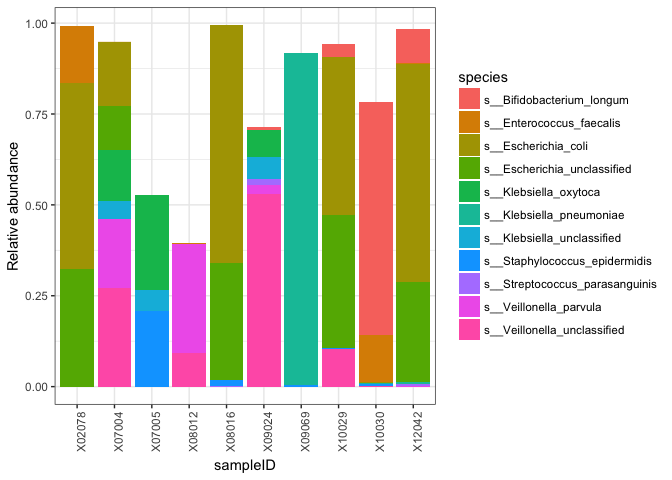
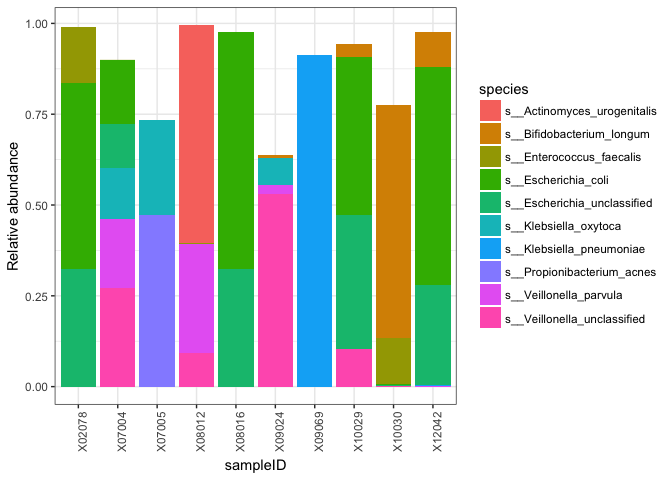
Fix top_n() bug

diff --git a/R_for_MetaPhlAn2/README.md b/R_for_MetaPhlAn2/README.md
@@ -11,7 +11,7 @@ Set your working directory to where you have your data on your own computer (and
 download data from <https://www.dropbox.com/s/agzc1fecgoj708z/infants_merged_table.txt?dl=0>
 
 ``` r
-setwd("~/Dropbox/teaching/HY_metagenomic_course_2019/MetagenomeCourse2019/R_for_MetaPhlAn2/")
+setwd("~/Dropbox/teaching/MetagenomeCourse2019/R_for_MetaPhlAn2/")
 #install.packages("tidyverse")
 #install.packages("vegan")
 #install.packages("devtools")
@@ -19,7 +19,7 @@ setwd("~/Dropbox/teaching/HY_metagenomic_course_2019/MetagenomeCourse2019/R_for_
 library(tidyverse)
 ```
 
-    ## ── Attaching packages ──────────────────────────────────────────────────────── tidyverse 1.2.1 ──
+    ## ── Attaching packages ───────────────────────────────── tidyverse 1.2.1 ──
 
     ## ✔ ggplot2 2.2.1     ✔ purrr   0.2.4
     ## ✔ tibble  1.4.2     ✔ dplyr   0.7.4
@@ -28,7 +28,7 @@ library(tidyverse)
 
     ## Warning: package 'stringr' was built under R version 3.5.2
 
-    ## ── Conflicts ─────────────────────────────────────────────────────────── tidyverse_conflicts() ──
+    ## ── Conflicts ──────────────────────────────────── tidyverse_conflicts() ──
     ## ✖ dplyr::filter() masks stats::filter()
     ## ✖ dplyr::lag()    masks stats::lag()
 
@@ -55,7 +55,23 @@ library(devtools)
 
 ``` r
 # Use this to install microbiomics if needed:
-#install_github("tvatanen/microbiomics")
+install_github("tvatanen/microbiomics")
+```
+
+    ## Downloading GitHub repo tvatanen/microbiomics@master
+    ## from URL https://api.github.com/repos/tvatanen/microbiomics/zipball/master
+
+    ## Installing microbiomics
+
+    ## '/Library/Frameworks/R.framework/Resources/bin/R' --no-site-file  \
+    ##   --no-environ --no-save --no-restore --quiet CMD INSTALL  \
+    ##   '/private/var/folders/fn/c7hlkwzs0qd0hm3klgt_jxqstnhy2f/T/RtmpriA833/devtoolsdedc1aeebd4f/tvatanen-microbiomics-3bb5e82'  \
+    ##   --library='/Library/Frameworks/R.framework/Versions/3.5/Resources/library'  \
+    ##   --install-tests
+
+    ## 
+
+``` r
 library(microbiomics)
 ```
 
@@ -71,33 +87,36 @@ mds_obj <- metaMDS(metaphlan_species)
 ```
 
     ## Run 0 stress 0.1564851 
-    ## Run 1 stress 0.1922584 
-    ## Run 2 stress 0.1361479 
+    ## Run 1 stress 0.1723213 
+    ## Run 2 stress 0.1686281 
+    ## Run 3 stress 0.1693675 
+    ## Run 4 stress 0.1698597 
+    ## Run 5 stress 0.1686259 
+    ## Run 6 stress 0.1361479 
     ## ... New best solution
-    ## ... Procrustes: rmse 0.1521212  max resid 0.359429 
-    ## Run 3 stress 0.1686252 
-    ## Run 4 stress 0.1720604 
-    ## Run 5 stress 0.1361479 
-    ## ... Procrustes: rmse 7.598371e-06  max resid 1.567332e-05 
+    ## ... Procrustes: rmse 0.1521211  max resid 0.3594294 
+    ## Run 7 stress 0.151936 
+    ## Run 8 stress 0.1361479 
+    ## ... Procrustes: rmse 2.272073e-06  max resid 4.544916e-06 
     ## ... Similar to previous best
-    ## Run 6 stress 0.1879219 
-    ## Run 7 stress 0.1686306 
-    ## Run 8 stress 0.1643489 
-    ## Run 9 stress 0.1361479 
-    ## ... New best solution
-    ## ... Procrustes: rmse 1.044081e-06  max resid 1.81197e-06 
+    ## Run 9 stress 0.151936 
+    ## Run 10 stress 0.1361479 
+    ## ... Procrustes: rmse 2.522688e-06  max resid 4.892589e-06 
     ## ... Similar to previous best
-    ## Run 10 stress 0.1686373 
-    ## Run 11 stress 0.1720604 
-    ## Run 12 stress 0.1723213 
-    ## Run 13 stress 0.1564851 
-    ## Run 14 stress 0.1698597 
-    ## Run 15 stress 0.1564851 
-    ## Run 16 stress 0.1723214 
-    ## Run 17 stress 0.1686305 
-    ## Run 18 stress 0.151936 
-    ## Run 19 stress 0.213171 
-    ## Run 20 stress 0.1564851 
+    ## Run 11 stress 0.1643488 
+    ## Run 12 stress 0.1822079 
+    ## Run 13 stress 0.1723213 
+    ## Run 14 stress 0.1361479 
+    ## ... Procrustes: rmse 8.933526e-06  max resid 1.513911e-05 
+    ## ... Similar to previous best
+    ## Run 15 stress 0.1822152 
+    ## Run 16 stress 0.151936 
+    ## Run 17 stress 0.1361479 
+    ## ... Procrustes: rmse 1.808752e-06  max resid 3.64211e-06 
+    ## ... Similar to previous best
+    ## Run 18 stress 0.1720604 
+    ## Run 19 stress 0.151936 
+    ## Run 20 stress 0.1693676 
     ## *** Solution reached
 
 ``` r
@@ -145,7 +164,7 @@ Generate barplot of 10 most abundant species
 ``` r
 species_stats %>% 
   arrange(-mean_relative_abundance) %>%
-  top_n(10) %>% 
+  top_n(n = 10, wt = mean_relative_abundance) %>% 
   left_join(metaphlan_species_long) %>%
   ggplot(aes(y=relative_abundance, x=sampleID, fill = species)) +
   geom_bar(stat = "identity") +
@@ -153,8 +172,6 @@ species_stats %>%
   ylab("Relative abundance") +
   theme(axis.text.x = element_text(angle = 90, hjust = 1))
 ```
-
-    ## Selecting by prevalence
 
     ## Joining, by = "species"
 
@@ -174,15 +191,13 @@ metaphlan_genera_long %>%
   group_by(genus) %>%
   summarize(mean_relative_abundance = mean(relative_abundance)) %>%
   arrange(-mean_relative_abundance) %>%
-  top_n(10) %>%
+  top_n(n = 10, wt = mean_relative_abundance) %>%
   left_join(metaphlan_genera_long) %>%
   ggplot(aes(y=relative_abundance, x=sampleID, fill = genus)) +
   geom_bar(stat = "identity") +
   theme_bw() +
   ylab("Relative abundance")
 ```
-
-    ## Selecting by mean_relative_abundance
 
     ## Joining, by = "genus"
 
